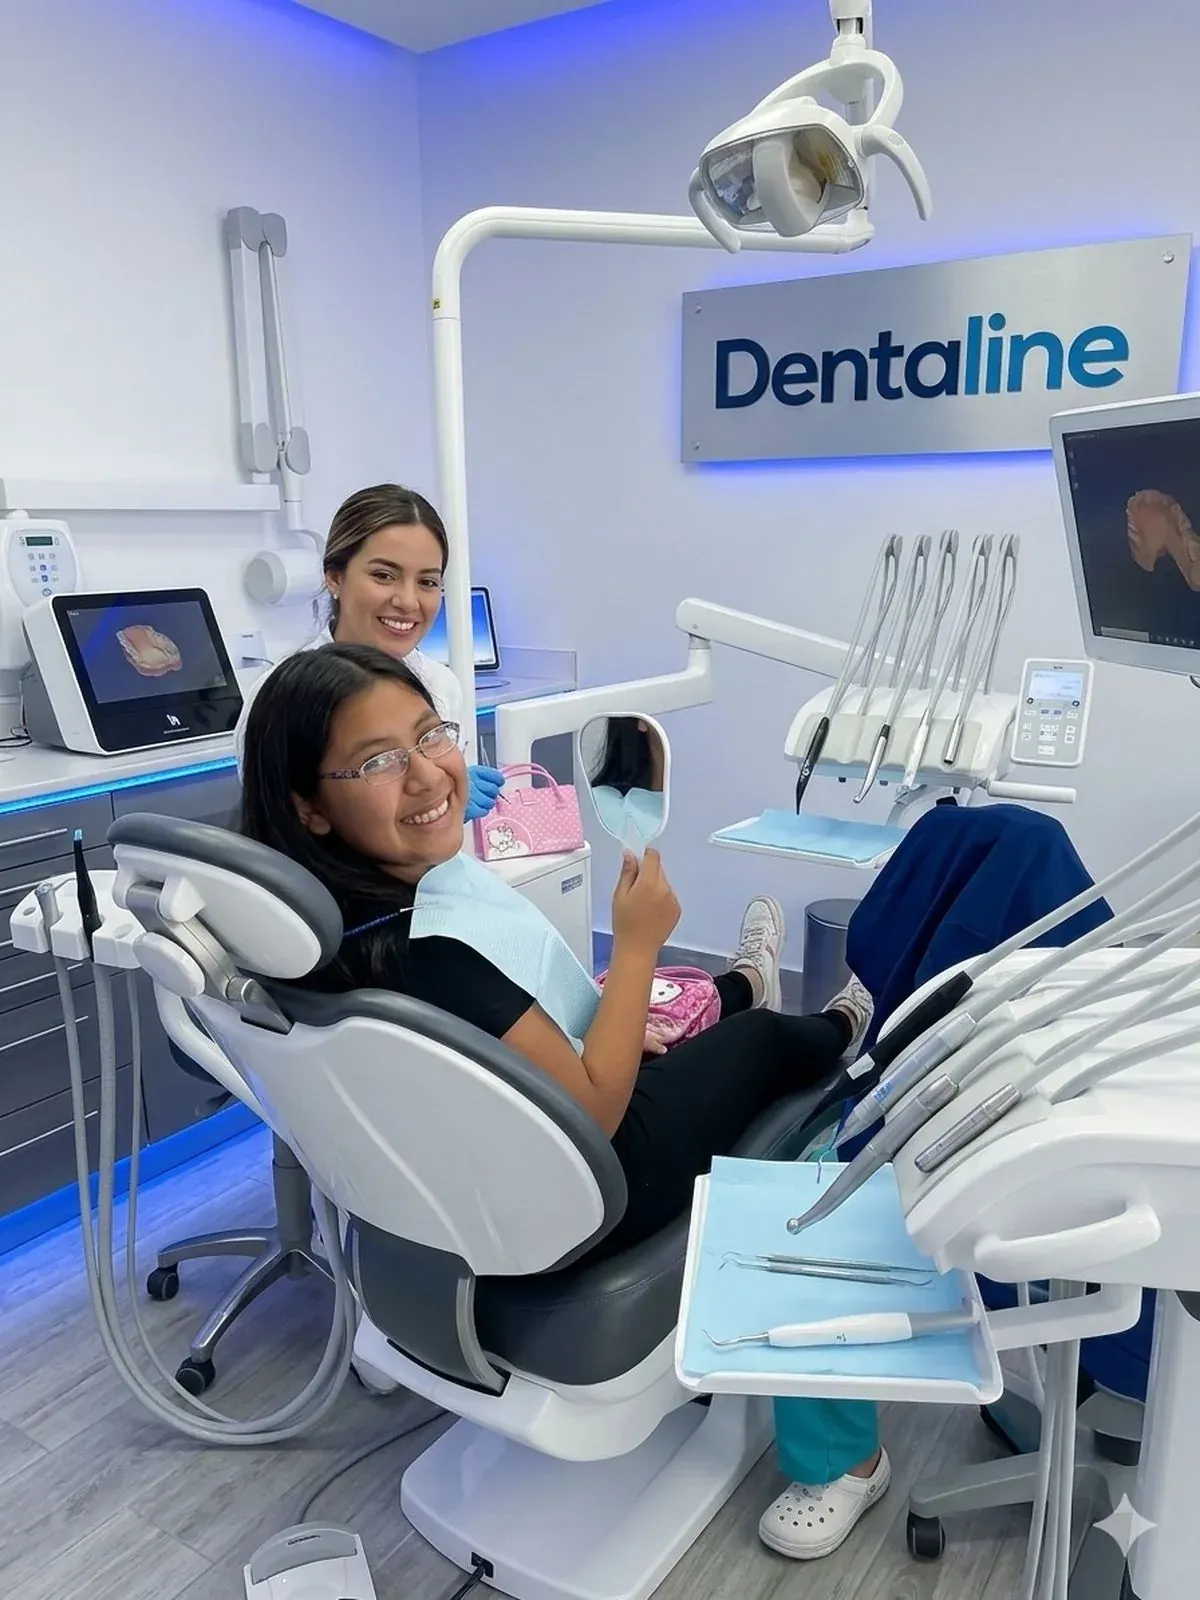
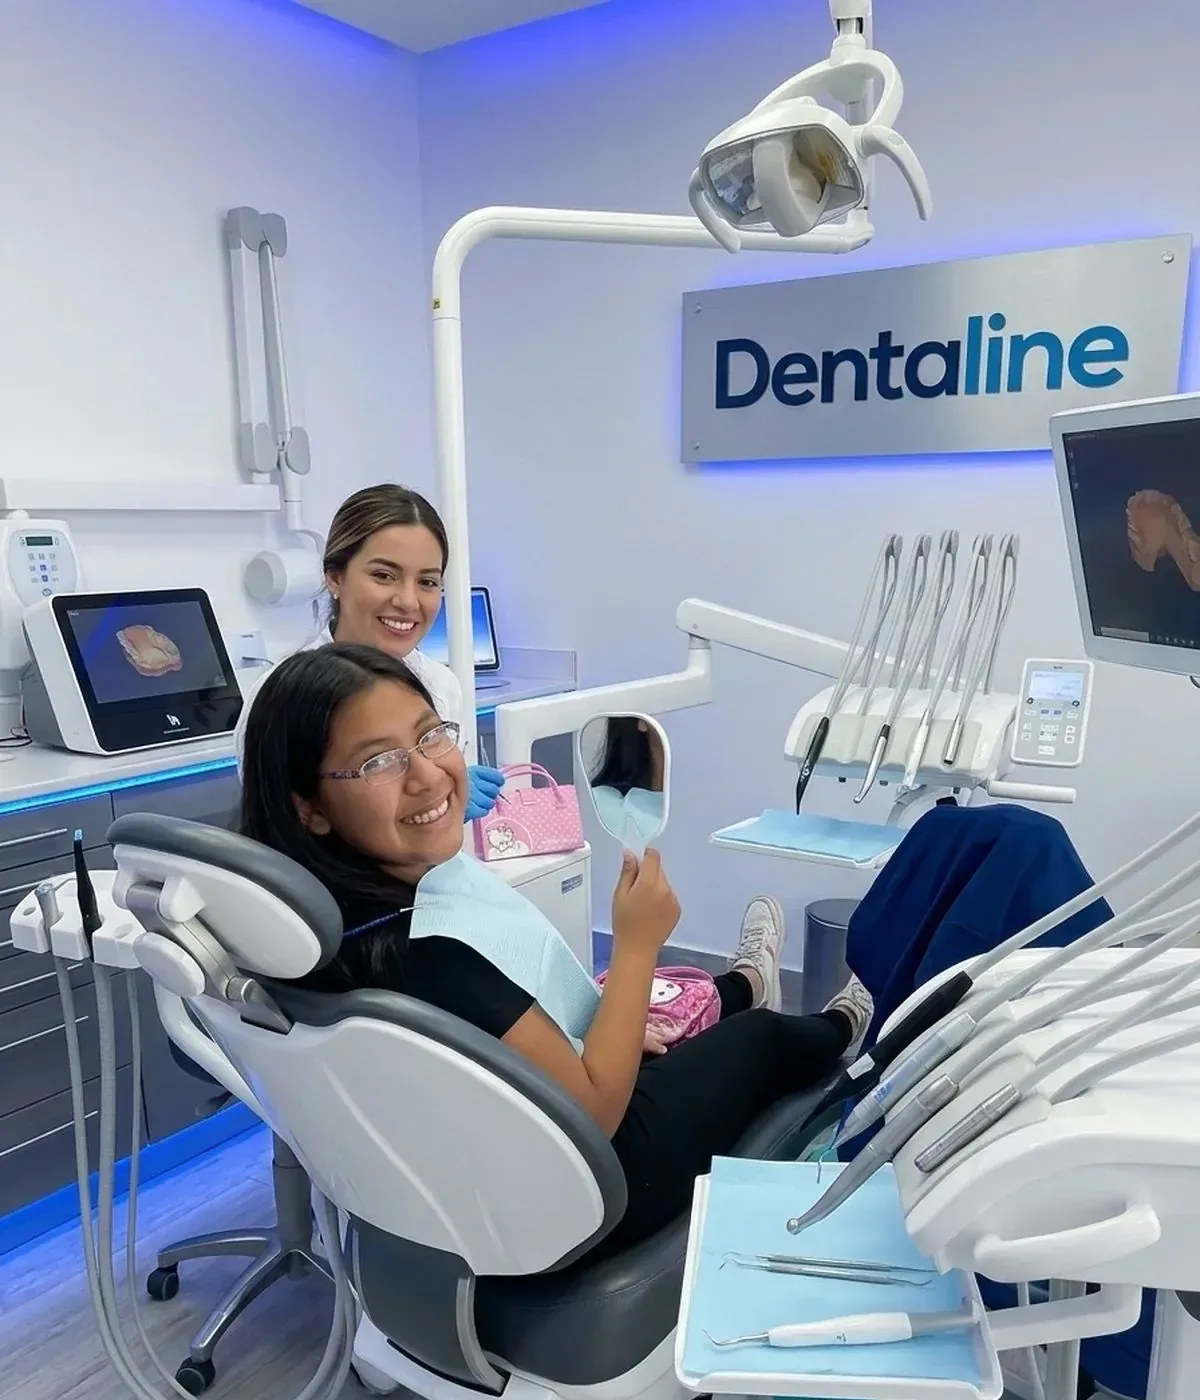
Fix insurance file uploads, add insurance-provider field, crop/compress images, finish SEO tags, remove dead CSS, add CLS/LCP perf attributes

diff --git a/index.html b/index.html
@@ -8,21 +8,19 @@
 <meta property="og:type" content="business.business">
 <meta property="og:title" content="Dentaline Dentista — Tu dentista de confianza">
 <meta property="og:description" content="7 consultorios en Ciudad Juárez con transporte gratis desde El Paso, TX. Agenda tu cita hoy.">
-<meta property="og:image" content="images/office-photo.webp">
+<meta property="og:image" content="https://dentalinemx.com/images/office-photo.webp">
 <meta property="og:locale" content="es_MX">
 <meta property="og:locale:alternate" content="en_US">
-<!--
-  NOTE for whoever publishes this: once this page lives at a real domain, add
-  <link rel="canonical"> and <meta property="og:url"> pointing to it, and fill
-  in the "url" field in the JSON-LD block below.
--->
+<meta property="og:url" content="https://dentalinemx.com/">
+<link rel="canonical" href="https://dentalinemx.com/">
 <script type="application/ld+json">
 {
   "@context": "https://schema.org",
   "@type": "Dentist",
   "name": "Dentaline Dentista",
   "telephone": "+526564196281",
-  "image": "images/office-photo.webp",
+  "url": "https://dentalinemx.com/",
+  "image": "https://dentalinemx.com/images/office-photo.webp",
   "areaServed": ["Ciudad Juárez, Chihuahua", "El Paso, TX"],
   "department": [
     { "@type": "Dentist", "name": "Dentaline Aztecas", "address": { "@type": "PostalAddress", "streetAddress": "Av. de los Aztecas 9109-1, Ciudad Moderna", "addressLocality": "Ciudad Juárez", "addressRegion": "Chihuahua", "addressCountry": "MX" }, "telephone": "+526566339976" },
@@ -119,17 +117,9 @@
   .compact-row .details{font-size:12.5px; color:var(--muted); text-align:right; line-height:1.5;}
   .map-link{color:var(--blue-600); font-weight:700; text-decoration:underline; text-underline-offset:2px;}
   .map-link:hover{color:var(--blue-700);}
-  .pending{
-    display:inline-block; font-size:10.5px; font-weight:700; color:var(--red-600);
-    background:var(--red-100); padding:2px 8px; border-radius:100px; margin-left:6px;
-  }
   .tag-opt{
     display:inline-block; font-size:10.5px; font-weight:700; color:var(--blue-700);
     background:var(--blue-100); padding:2px 8px; border-radius:100px; margin-left:6px;
-  }
-  .missing-note{
-    margin-top:20px; background:var(--blue-100); border:1px solid var(--line); border-radius:14px;
-    padding:14px 18px; font-size:13px; color:var(--blue-700);
   }
   .mini-ins{
     display:flex; align-items:center; justify-content:space-between; gap:14px; flex-wrap:wrap;
@@ -158,10 +148,10 @@
   .field textarea{resize:vertical; min-height:70px;}
   .field-row{display:grid; grid-template-columns:1fr 1fr; gap:14px;}
   @media(max-width:520px){ .field-row{grid-template-columns:1fr;} }
-  #formStatus{font-size:14px; padding:12px 14px; border-radius:10px; display:none;}
-  #formStatus.ok{display:block; background:var(--green-100); color:#3d5417; border:1px solid var(--green-500);}
-  #formStatus.err{display:block; background:var(--red-100); color:#8A2C2C; border:1px solid #E39A9A;}
-  #formStatus.sending{display:block; background:var(--blue-100); color:var(--blue-700); border:1px solid var(--line);}
+  .form-status{font-size:14px; padding:12px 14px; border-radius:10px; display:none;}
+  .form-status.ok{display:block; background:var(--green-100); color:#3d5417; border:1px solid var(--green-500);}
+  .form-status.err{display:block; background:var(--red-100); color:#8A2C2C; border:1px solid #E39A9A;}
+  .form-status.sending{display:block; background:var(--blue-100); color:var(--blue-700); border:1px solid var(--line);}
   /* ---------- SLIDE 3: Identidad — Misión / Visión ---------- */
   .slide3{
     background:linear-gradient(150deg, var(--blue-600) 0%, var(--blue-500) 45%, var(--green-500) 100%);
@@ -194,7 +184,7 @@
 <body>
 <header>
   <div class="wrap nav">
-    <div class="nav-logo"><img src="images/logo.webp" alt="Dentaline"></div>
+    <div class="nav-logo"><img src="images/logo.webp" alt="Dentaline" width="1400" height="649"></div>
     <div class="nav-cta">
       <div class="lang-toggle">
         <button data-lang-btn="es" class="active">ES</button>
@@ -208,7 +198,7 @@
   <!-- ============ SLIDE 1: HERO ============ -->
   <section class="slide1" id="inicio">
     <div class="wrap">
-      <div class="hero-logo"><img src="images/logo.webp" alt="Dentaline — Tu dentista de confianza"></div>
+      <div class="hero-logo"><img src="images/logo.webp" alt="Dentaline — Tu dentista de confianza" width="1400" height="649"></div>
       <div class="transporte-banner">
         <span data-es="TRANSPORTE GRATIS" data-en="FREE TRANSPORT">TRANSPORTE GRATIS</span>
         <span class="arrow">El Paso → Juárez</span>
@@ -217,7 +207,7 @@
         <a href="#agendar" class="btn btn-green btn-lg" data-es="Agendar Cita" data-en="Book Your Appointment">Agendar Cita</a>
       </div>
       <div class="slide1-photo">
-        <img src="images/office-photo.webp" alt="Consultorio Dentaline">
+        <img src="images/office-photo.webp" alt="Consultorio Dentaline" width="1200" height="1400" fetchpriority="high">
       </div>
       <p class="slide1-caption" data-es="Nuestro consultorio — tecnología digital, ambiente cómodo, equipo certificado." data-en="Our office — digital technology, a comfortable environment, certified team.">Nuestro consultorio — tecnología digital, ambiente cómodo, equipo certificado.</p>
     </div>
@@ -277,19 +267,27 @@
       </div>
       <div id="insuranceUploadWrap">
         <div class="upload-card">
-          <form id="insuranceForm">
+          <form id="insuranceForm" action="https://formsubmit.co/ingresos2@opticas20-20.com" method="POST" enctype="multipart/form-data">
+            <input type="hidden" name="_subject" value="Nueva verificación de seguro — foto de tarjeta">
+            <input type="hidden" name="_captcha" value="false">
+            <input type="hidden" name="_next" value="https://dentalinemx.com/#seguro-enviado">
             <div class="field-row">
-              <div class="field"><label data-es="Nombre" data-en="Name">Nombre</label><input type="text" id="ins-name" name="name" required></div>
-              <div class="field"><label data-es="Correo o teléfono" data-en="Email or phone">Correo o teléfono</label><input type="text" id="ins-contact" name="contact" required></div>
+              <div class="field"><label for="ins-name" data-es="Nombre" data-en="Name">Nombre</label><input type="text" id="ins-name" name="Nombre" required></div>
+              <div class="field"><label for="ins-contact" data-es="Correo o teléfono" data-en="Email or phone">Correo o teléfono</label><input type="text" id="ins-contact" name="Contacto" required></div>
             </div>
             <div class="field">
-              <label data-es="Foto de tu tarjeta de seguro" data-en="Photo of your insurance card">Foto de tu tarjeta de seguro</label>
-              <input type="file" id="ins-file" name="attachment" accept="image/*" multiple required>
+              <label for="ins-provider" data-es="Aseguradora (opcional)" data-en="Insurance provider (optional)">Aseguradora (opcional)</label>
+              <input type="text" id="ins-provider" name="Aseguradora" placeholder="Ej. MetLife, GNP, AXA…">
             </div>
-            <input type="text" id="ins-honey" name="_honey" style="display:none" tabindex="-1" autocomplete="off">
+            <div class="field">
+              <label for="ins-file" data-es="Foto de tu tarjeta de seguro" data-en="Photo of your insurance card">Foto de tu tarjeta de seguro</label>
+              <input type="file" id="ins-file" name="attachment" accept="image/*" multiple required>
+              <span style="font-size:12px;color:var(--muted)" data-es="Máximo 10MB en total." data-en="10MB total maximum.">Máximo 10MB en total.</span>
+            </div>
+            <input type="text" name="_honey" style="display:none" tabindex="-1" autocomplete="off">
             <button type="submit" class="btn btn-primary" id="insSubmitBtn" data-es="Enviar" data-en="Send">Enviar</button>
-            <div id="insFormStatus" role="status"></div>
           </form>
+          <div id="insFormStatus" class="form-status" role="status"></div>
         </div>
       </div>
       <div class="subhead" id="agendar" data-es="Agendar" data-en="Book">Agendar</div>
@@ -327,14 +325,14 @@
         <div class="field"><label data-es="Fecha preferida" data-en="Preferred date">Fecha preferida</label><input type="date" id="date" name="date"></div>
         <input type="text" id="booking-honey" name="_honey" style="display:none" tabindex="-1" autocomplete="off">
         <button type="submit" class="btn btn-green" id="submitBtn" data-es="Enviar solicitud" data-en="Send request">Enviar solicitud</button>
-        <div id="formStatus" role="status"></div>
+        <div id="formStatus" class="form-status" role="status"></div>
       </form>
     </div>
   </section>
   <!-- ============ SLIDE 3: MISIÓN, VISIÓN Y CONTACTO ============ -->
   <section class="slide3" id="identidad">
     <div class="wrap">
-      <div class="slide3-logo"><img src="images/logo.webp" alt="Dentaline"></div>
+      <div class="slide3-logo"><img src="images/logo.webp" alt="Dentaline" width="1400" height="649"></div>
       <div class="mv-grid">
         <div class="mv-card">
           <div class="mv-icon">🎯</div>
@@ -348,7 +346,7 @@
         </div>
       </div>
       <div class="reception-photo">
-        <img src="images/reception-photo.webp" alt="Consultorio Dentaline">
+        <img src="images/reception-photo.webp" alt="Consultorio Dentaline" width="1280" height="720" loading="lazy">
       </div>
       <p class="reception-caption" data-es="Nuestro consultorio, listo para recibirte" data-en="Our clinic, ready to welcome you">Nuestro consultorio, listo para recibirte</p>
       <div class="slide3-cta">
@@ -403,7 +401,7 @@
     const location = document.getElementById('location').value;
     const targetEmail = BRANCH_EMAILS[location];
     if (!targetEmail) {
-      statusEl.className = 'err';
+      statusEl.className = 'form-status err';
       statusEl.textContent = 'Elige una sucursal antes de enviar.';
       return;
     }
@@ -418,7 +416,7 @@
       _honey: document.getElementById('booking-honey').value
     };
     submitBtn.disabled = true;
-    statusEl.className = 'sending';
+    statusEl.className = 'form-status sending';
     statusEl.textContent = 'Enviando tu solicitud…';
     try {
       const res = await fetch(`https://formsubmit.co/ajax/${encodeURIComponent(targetEmail)}`, {
@@ -427,55 +425,40 @@
         body: JSON.stringify(payload)
       });
       if (res.ok) {
-        statusEl.className = 'ok';
+        statusEl.className = 'form-status ok';
         statusEl.textContent = '¡Listo! Tu solicitud fue enviada. Te contactaremos pronto.';
         form.reset();
       } else { throw new Error('bad response'); }
     } catch (err) {
-      statusEl.className = 'err';
+      statusEl.className = 'form-status err';
       statusEl.textContent = 'No se pudo enviar automáticamente. Por favor llámanos al 656 419 6281.';
     } finally {
       submitBtn.disabled = false;
     }
   });
   // ---- Insurance card upload ----
-  // Insurance card uploads route here (not shown anywhere in the UI).
-  const INSURANCE_UPLOAD_EMAIL = "ingresos2@opticas20-20.com";
+  // Submits as a real (non-AJAX) multipart form POST — required for FormSubmit
+  // to actually attach the file to the email. Their JSON/ajax endpoint does not
+  // reliably deliver file attachments, only plain field data.
   const insForm = document.getElementById('insuranceForm');
   const insStatusEl = document.getElementById('insFormStatus');
   const insSubmitBtn = document.getElementById('insSubmitBtn');
-  insForm.addEventListener('submit', async (e) => {
-    e.preventDefault();
-    const formData = new FormData();
-    formData.append('_subject', 'Nueva verificación de seguro — foto de tarjeta');
-    formData.append('Nombre', document.getElementById('ins-name').value);
-    formData.append('Contacto', document.getElementById('ins-contact').value);
-    formData.append('_honey', document.getElementById('ins-honey').value);
-    const files = document.getElementById('ins-file').files;
-    for (let i = 0; i < files.length; i++) {
-      formData.append('attachment', files[i]);
-    }
+  insForm.addEventListener('submit', () => {
     insSubmitBtn.disabled = true;
-    insStatusEl.className = 'sending';
+    insStatusEl.className = 'form-status sending';
     insStatusEl.textContent = 'Enviando…';
-    try {
-      const res = await fetch(`https://formsubmit.co/ajax/${encodeURIComponent(INSURANCE_UPLOAD_EMAIL)}`, {
-        method: 'POST',
-        headers: { 'Accept': 'application/json' },
-        body: formData
-      });
-      if (res.ok) {
-        insStatusEl.className = 'ok';
-        insStatusEl.textContent = '¡Listo! Recibimos tu tarjeta y la revisamos antes de tu cita.';
-        insForm.reset();
-      } else { throw new Error('bad response'); }
-    } catch (err) {
-      insStatusEl.className = 'err';
-      insStatusEl.textContent = 'No se pudo enviar. Por favor llámanos al 656 419 6281.';
-    } finally {
-      insSubmitBtn.disabled = false;
-    }
+    // No preventDefault here — the browser submits the form natively and
+    // FormSubmit redirects back to the _next URL below on success.
   });
+  // After a successful submission, FormSubmit redirects back here with
+  // #seguro-enviado — show a confirmation instead of the empty form.
+  if (window.location.hash === '#seguro-enviado') {
+    insUploadWrap.classList.add('open');
+    insForm.style.display = 'none';
+    insStatusEl.className = 'form-status ok';
+    insStatusEl.textContent = '¡Listo! Recibimos tu tarjeta y la revisamos antes de tu cita.';
+    history.replaceState(null, '', window.location.pathname + window.location.search);
+  }
 </script>
 </body>
 </html>
